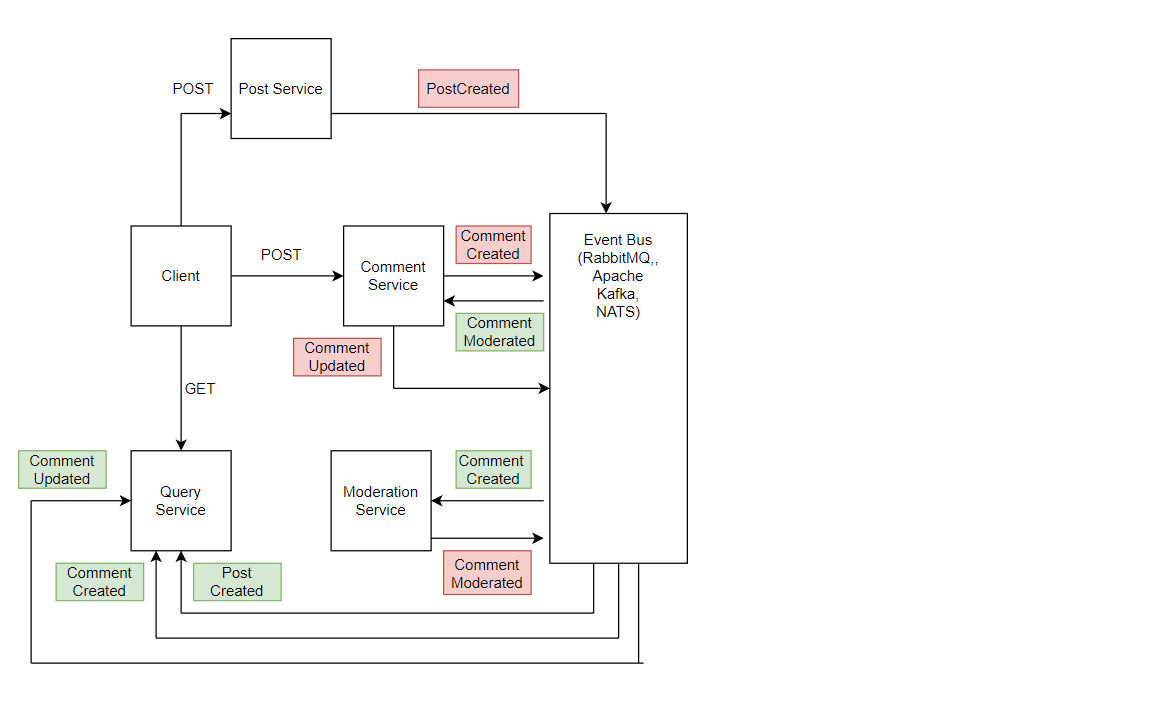
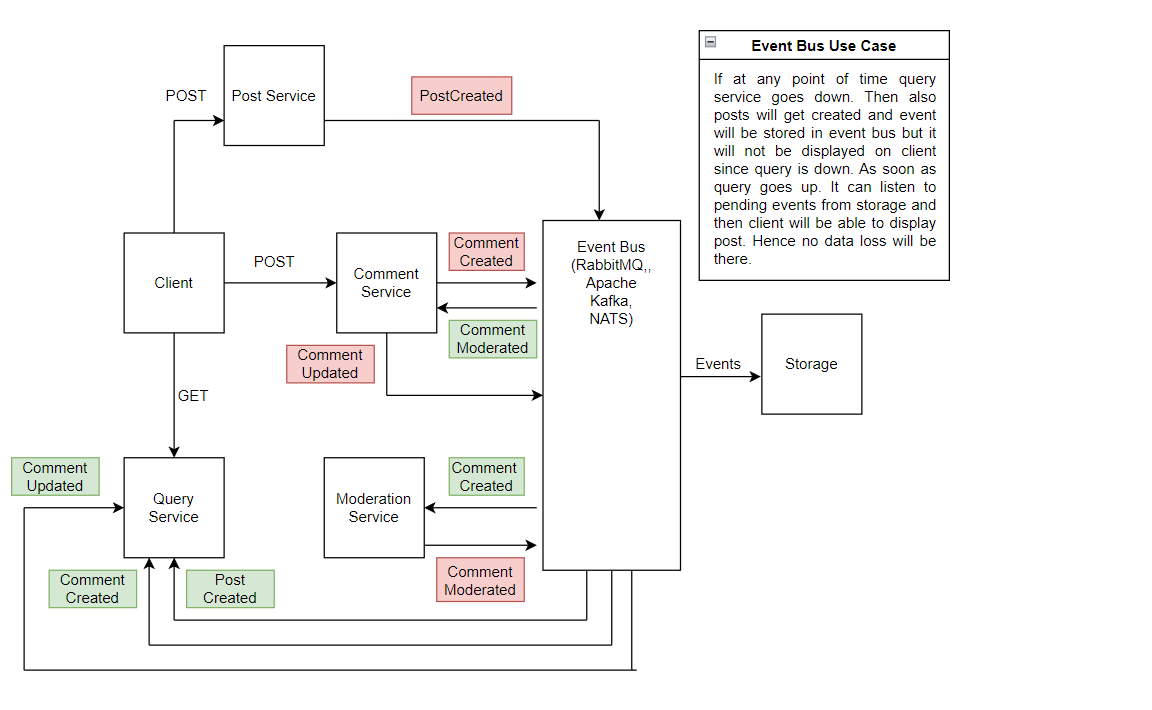
Event bus persistance

diff --git a/query/index.js b/query/index.js
@@ -1,17 +1,13 @@
 const express = require("express");
 const cors = require("cors");
 const app = express();
+const axios = require("axios");
 app.use(cors());
 app.use(express.json());
 
 const posts = {};
 
-app.get("/posts", (req, res) => {
-    res.send(posts);
-})
-
-app.post("/events", (req, res) => {
-    const { type, data } = req.body;
+const handleEvent = (type, data) => {
     if(type === 'PostCreated') {
         const { id, title } = data;
         posts[id] = { id, title, comments: [] };
@@ -30,9 +26,23 @@ app.post("/events", (req, res) => {
         comment.status = status;
         comment.content = content;
     }
+}
+
+app.get("/posts", (req, res) => {
+    res.send(posts);
+})
+
+app.post("/events", (req, res) => {
+    const { type, data } = req.body;
+    handleEvent(type, data);
     res.send({ msg: "Event Received" });
 })
 
-app.listen(4002, () => {
+app.listen(4002, async () => {
     console.log("Listening on 4002");
+    const res = await axios.get("http://localhost:4005/events");
+    for(let event of res.data) {
+        console.log("Processing event: ", event.type);
+        handleEvent(event.type, event.data);
+    }
 })

diff --git a/event-bus/index.js b/event-bus/index.js
@@ -12,10 +12,14 @@ app.post("/events", async (req, res) => {
 
     events.push(event);
 
-    await axios.post("http://localhost:4000/events", event)
-    await axios.post("http://localhost:4001/events", event);
-    await axios.post("http://localhost:4002/events", event);
-    await axios.post("http://localhost:4003/events", event);
+    try {
+        await axios.post("http://localhost:4000/events", event);
+        await axios.post("http://localhost:4001/events", event);
+        await axios.post("http://localhost:4002/events", event);
+        await axios.post("http://localhost:4003/events", event);
+    } catch(err) {
+        console.log(err);
+    }
 
     res.send({ status: "OK" });
 })

diff --git a/posts/index.js b/posts/index.js
@@ -18,12 +18,16 @@ app.post("/posts", async (req, res) => {
     posts[id] = {
         id, title
     };
-    await axios.post("http://localhost:4005/events", {
-        type: "PostCreated",
-        data: {
-            id, title
-        }
-    })
+    try {
+        await axios.post("http://localhost:4005/events", {
+            type: "PostCreated",
+            data: {
+                id, title
+            }
+        })
+    } catch(err) {
+        console.log(err);
+    }
     res.status(201).send(posts[id]);
 });
 
